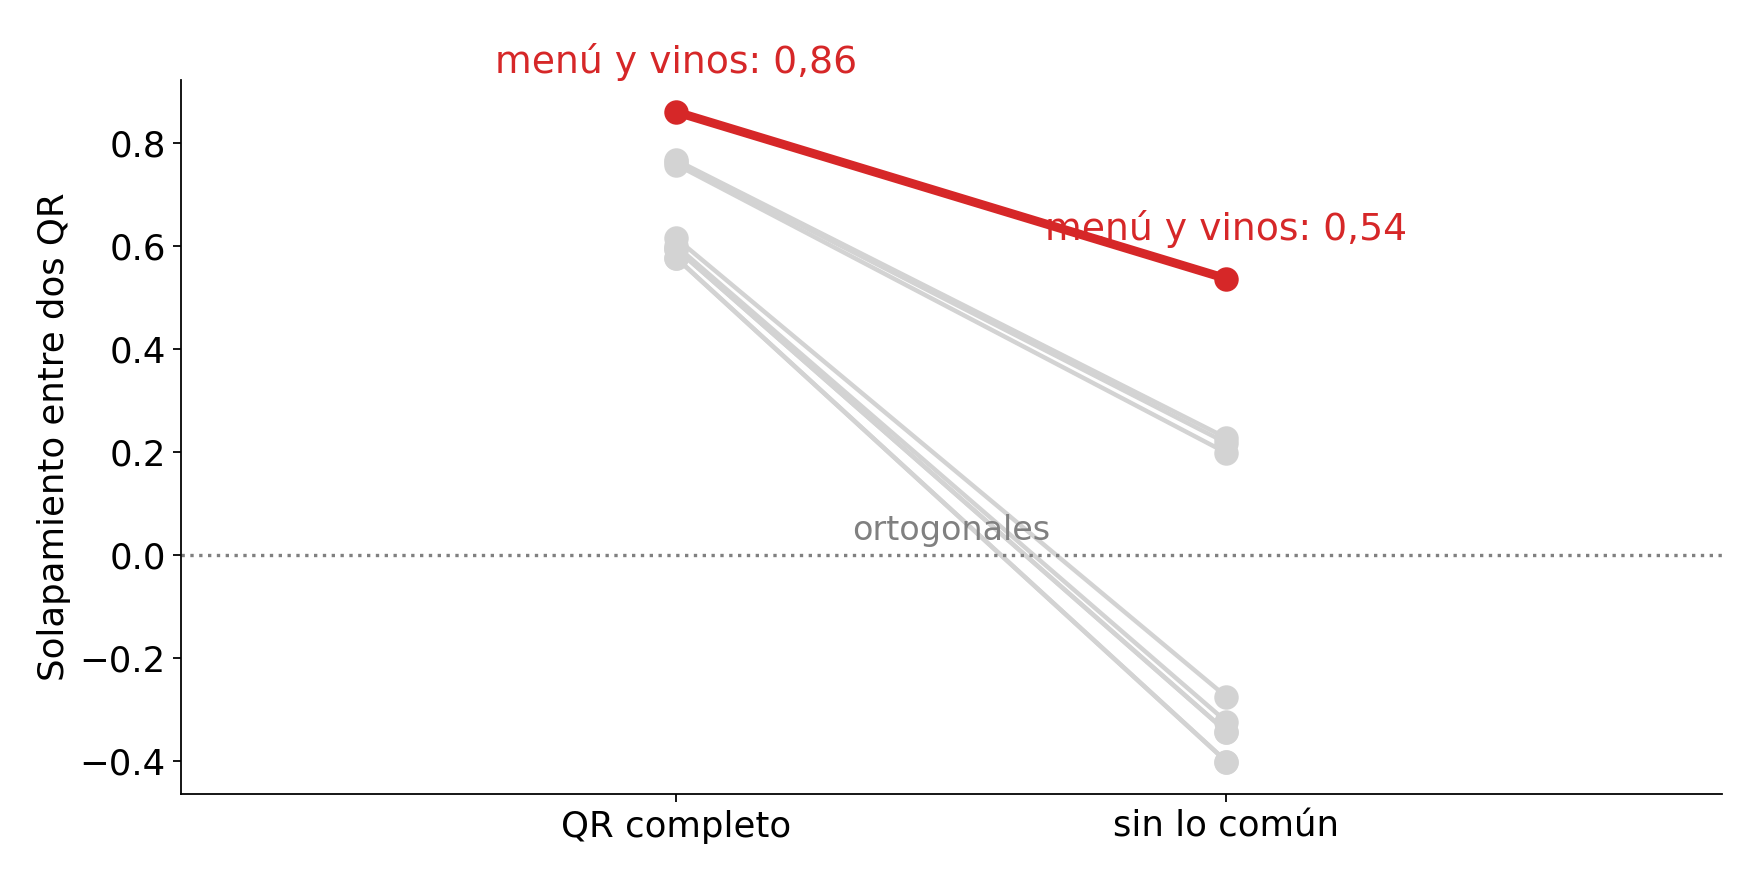
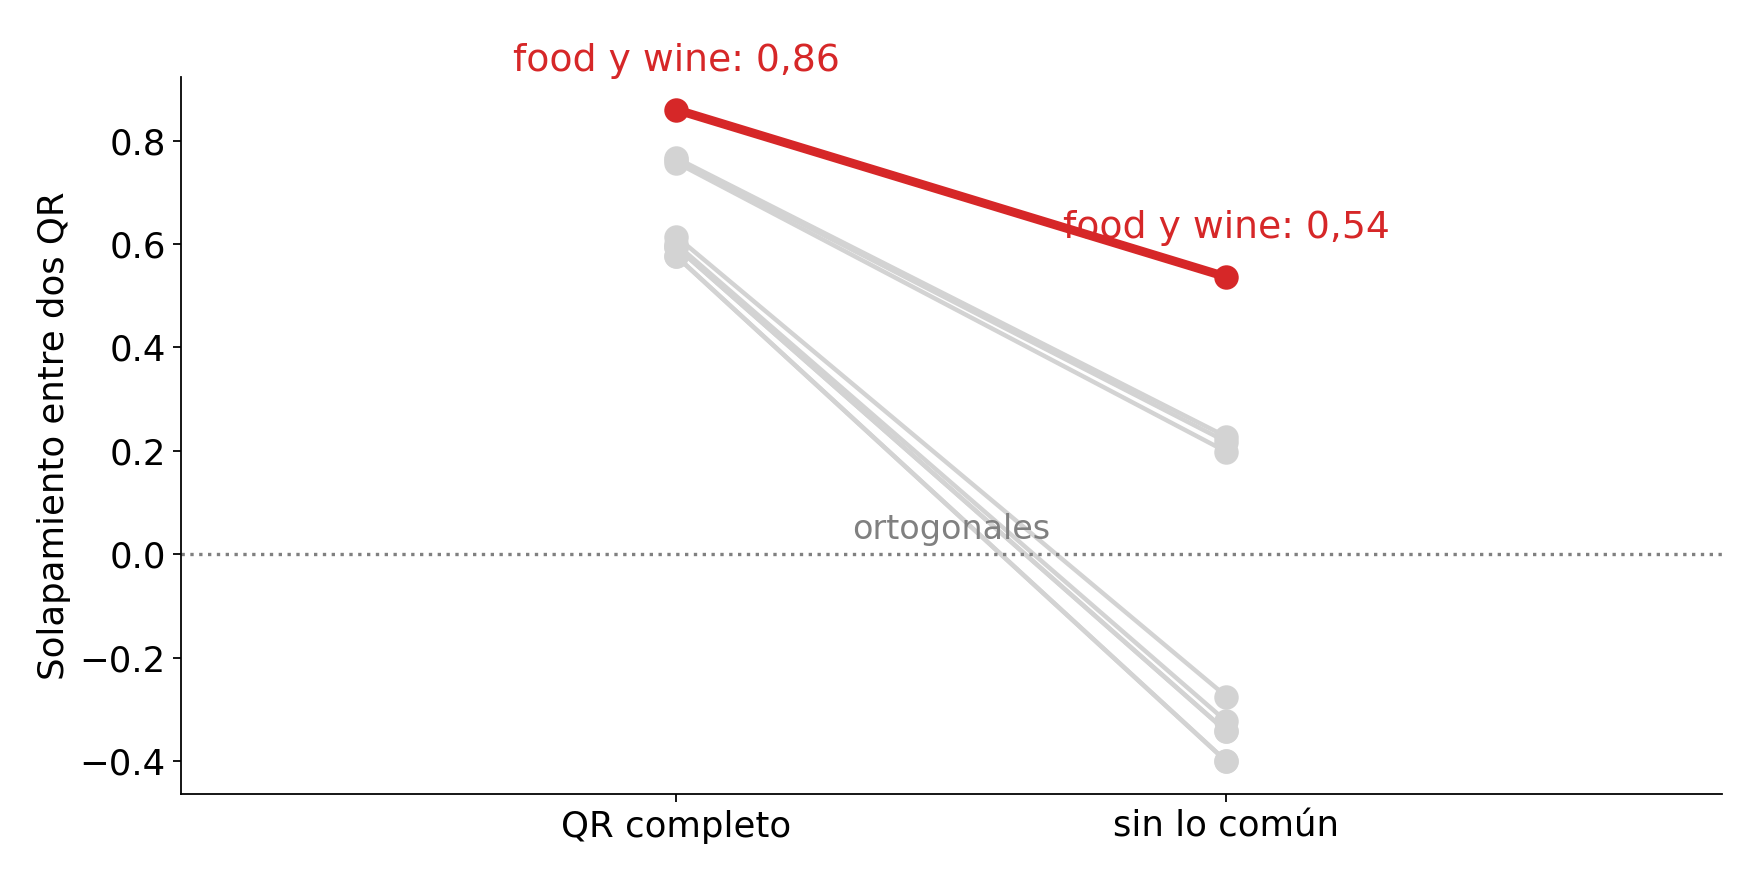
fix(tp4): usa los nombres en inglés de los QR en la presentación
food, wine, beverages, dessert y specials en diapositivas, notas y
figuras regenerables. Las ternas y los solapamientos se recalculan en
memoria con hopfield_qr_variante: dan los mismos 0,54 y 86 %.

diff --git a/TP4/presentation/index.html b/TP4/presentation/index.html
@@ -315,7 +315,7 @@
   <p class="number">2</p>
   <h2>Memoria asociativa</h2>
   <p class="lead">Cinco QR gastados en la Trattoria Aurora. ¿Puede una red de Hopfield recuperarlos?</p>
-  <aside class="notes">Los cinco QR son las cartas del restaurante: menú principal, vinos, cócteles, postres y especiales. Las consultas son los QR con ruido: cada módulo se invierte con probabilidad de 0 a 50 %, 20 semillas por nivel y por QR, 1.100 consultas en total. Después probamos daños más realistas: desgaste, manchas, rayones y una foto gastada.</aside>
+  <aside class="notes">Los cinco QR son las cartas del restaurante: food (menú principal), wine (vinos), beverages (cócteles y otras bebidas), dessert (postres) y specials (especiales del día). Las consultas son los QR con ruido: cada módulo se invierte con probabilidad de 0 a 50 %, 20 semillas por nivel y por QR, 1.100 consultas en total. Después probamos daños más realistas: desgaste, manchas, rayones y una foto gastada.</aside>
 </section>
 
 <section class="figure has-take">
@@ -327,9 +327,9 @@
 
 <section class="figure has-take">
   <h2>La energía baja, pero hacia la mezcla</h2>
-  <figure><img src="assets/reports__presentacion__e2_energia_niveles.png" alt="Energía por iteración de una consulta de menú y energía de cada QR y de la mezcla"></figure>
+  <figure><img src="assets/reports__presentacion__e2_energia_niveles.png" alt="Energía por iteración de una consulta de food y energía de cada QR y de la mezcla"></figure>
   <p class="take">La mezcla (−2.173) está más abajo que cualquier QR guardado (−1.790 a −2.077). La red llega en 1 o 2 iteraciones.</p>
-  <aside class="notes">Izquierda: una consulta de menú con 0, 20 y 45 % de ruido. La energía baja en cada iteración y termina en la línea roja, la mezcla, por debajo del menú guardado. Por qué la mezcla está más abajo: con Hebb, la energía de un estado es −N/2 por la suma, sobre los cinco QR, del cuadrado de cuánto se parece a cada uno, más una constante (p/2 = 2,5) que sale de poner la diagonal en cero. El menú se parece 1 a sí mismo y 0,86, 0,60, 0,59 y 0,77 a los otros: suma 3,04. La mezcla se parece 0,90, 0,87, 0,67, 0,67 y 0,85: suma 3,18. Parecerse bastante a los cinco gana a ser igual a uno. Con patrones al azar no pasa: cada patrón suma casi 1 y la mezcla de cinco, 0,70. En promedio la red para en 1 a 2 iteraciones (apéndice). Con actualización sincrónica la energía podría subir; en este barrido no subió nunca, pero es lo observado, no una garantía.</aside>
+  <aside class="notes">Izquierda: una consulta de food con 0, 20 y 45 % de ruido. La energía baja en cada iteración y termina en la línea roja, la mezcla, por debajo del food guardado. Por qué la mezcla está más abajo: con Hebb, la energía de un estado es −N/2 por la suma, sobre los cinco QR, del cuadrado de cuánto se parece a cada uno, más una constante (p/2 = 2,5) que sale de poner la diagonal en cero. Food se parece 1 a sí mismo y 0,86, 0,60, 0,59 y 0,77 a los otros: suma 3,04. La mezcla se parece 0,90, 0,87, 0,67, 0,67 y 0,85: suma 3,18. Parecerse bastante a los cinco gana a ser igual a uno. Con patrones al azar no pasa: cada patrón suma casi 1 y la mezcla de cinco, 0,70. En promedio la red para en 1 a 2 iteraciones (apéndice). Con actualización sincrónica la energía podría subir; en este barrido no subió nunca, pero es lo observado, no una garantía.</aside>
 </section>
 
 <!-- Problema 1: los cinco QR se parecen -->
@@ -362,7 +362,7 @@
       <p>Entre pares, de 0,58 a 0,86. Al azar, 0,03</p>
     </div>
   </main>
-  <aside class="notes">Hebb funciona cuando los patrones son casi ortogonales: cada uno coincide con los otros en la mitad de los módulos. Las URL comparten los primeros 72 caracteres y solo cambia una palabra: food, wine, beverages, dessert, specials. El QR escribe el mensaje desde la esquina inferior derecha, así que el prefijo común queda en la mitad derecha y las diferencias, a la izquierda: 410 de los 414 módulos que difieren. Esquinas, línea de sincronismo y formato son fijos en todo QR. Menú y vinos coinciden en el 93 % de los módulos. Cualquier conjunto de QR de un mismo sitio va a tener este problema.</aside>
+  <aside class="notes">Hebb funciona cuando los patrones son casi ortogonales: cada uno coincide con los otros en la mitad de los módulos. Las URL comparten los primeros 72 caracteres y solo cambia una palabra: food, wine, beverages, dessert, specials. El QR escribe el mensaje desde la esquina inferior derecha, así que el prefijo común queda en la mitad derecha y las diferencias, a la izquierda: 410 de los 414 módulos que difieren. Esquinas, línea de sincronismo y formato son fijos en todo QR. Food y wine coinciden en el 93 % de los módulos. Cualquier conjunto de QR de un mismo sitio va a tener este problema.</aside>
 </section>
 
 <section class="figure has-take">
@@ -379,18 +379,18 @@
   <aside class="notes">Antes probamos cortar el QR en zonas, una red por zona: no alcanza, porque el parecido es el mismo en cada zona (apéndice). Sacar lo común sí cambia algo: con tres QR guardados recupera el 95,7 % con 25 % de ruido. Cuidado al medir: reponer los comunes ya borra el ruido que cayó ahí sin que la red haga nada, así que comparamos contra esa reposición sin red: 103,5 módulos mal contra 2,1 de la red. Y reponer usa los QR guardados, pero solo la parte que comparten los cinco: no aporta nada para elegir cuál es. Con los cinco juntos ninguno queda estable: hay un segundo problema.</aside>
 </section>
 
-<!-- Problema 2: menú y vinos -->
+<!-- Problema 2: food y wine -->
 
 <section class="section">
-  <h2>Problema 2: sin lo común, menú y vinos siguen pareciéndose</h2>
+  <h2>Problema 2: sin lo común, food y wine siguen pareciéndose</h2>
   <p class="roadmap">Problema 1 · <span class="current">Problema 2</span> · Soluciones · Límites</p>
 </section>
 
 <section class="figure has-take">
-  <h2>Sacar lo común separa a casi todos los pares, menos a menú y vinos</h2>
-  <figure class="pair"><img src="assets/reports__presentacion__e2_solapamiento_antes_despues.png" alt="Solapamiento de cada par de QR con el QR completo y sin lo común"><img src="assets/reports__presentacion__e2_par_parecido.png" alt="Recuperación de ternas con y sin el par menú y vinos"></figure>
-  <p class="take">Sin lo común, menú y vinos quedan en <em>0,54</em>; los demás pares, entre −0,40 y 0,23. Con tres QR y 25 % de ruido: 100 % sin el par, 86 % con el par.</p>
-  <aside class="notes">Izquierda: cada línea es un par de QR, con los 1.369 módulos y con los 414 que difieren. Los negativos salen de que cada módulo se reparte 4 contra 1 o 3 contra 2 entre los cinco QR; las ternas con esos pares se recuperan igual de bien, así que el que molesta es el par positivo. Como referencia, cinco patrones al azar de 414 módulos llegan como mucho a 0,08 en valor absoluto. Derecha: red sin lo común guardando tres QR. De las diez ternas, las tres que incluyen a menú y vinos son las tres peores. Con los cinco juntos el par está siempre adentro.</aside>
+  <h2>Sacar lo común separa a casi todos los pares, menos a food y wine</h2>
+  <figure class="pair"><img src="assets/reports__presentacion__e2_solapamiento_antes_despues.png" alt="Solapamiento de cada par de QR con el QR completo y sin lo común"><img src="assets/reports__presentacion__e2_par_parecido.png" alt="Recuperación de ternas con y sin el par food y wine"></figure>
+  <p class="take">Sin lo común, food y wine quedan en <em>0,54</em>; los demás pares, entre −0,40 y 0,23. Con tres QR y 25 % de ruido: 100 % sin el par, 86 % con el par.</p>
+  <aside class="notes">Izquierda: cada línea es un par de QR, con los 1.369 módulos y con los 414 que difieren. Los negativos salen de que cada módulo se reparte 4 contra 1 o 3 contra 2 entre los cinco QR; las ternas con esos pares se recuperan igual de bien, así que el que molesta es el par positivo. Como referencia, cinco patrones al azar de 414 módulos llegan como mucho a 0,08 en valor absoluto. Derecha: red sin lo común guardando tres QR. De las diez ternas, las tres que incluyen a food y wine son las tres peores. Con los cinco juntos el par está siempre adentro.</aside>
 </section>
 
 <section>
@@ -408,8 +408,8 @@
   <p class="tag">Diagnóstico, no solución</p>
   <h2>Separado el par, cada red funciona; elegir la red no</h2>
   <figure><img src="assets/reports__presentacion__e2_dos_redes.png" alt="Recuperación con dos redes según cómo se elige la salida, contra comparar con los originales"></figure>
-  <p class="take">Menú en una red y vinos en otra: cada una recupera sus QR. Pero una consulta de menú, en la red de vinos, cae en vinos (140 de 140). Para elegir hay que comparar con los originales.</p>
-  <aside class="notes">Repartimos los cinco QR en una terna y un par con el menor parecido dentro de cada grupo: sale solo que menú y vinos quedan separados. Si mandamos la consulta a la red que guarda su QR, recupera el 100 % hasta 35 % de ruido: eso confirma que el par es el único obstáculo. Pero en la realidad no sabemos qué QR es la consulta. Con menú, las dos redes devuelven un QR guardado. Sin desempate, el total queda en 80 % (curva roja). Desempatar con la salida más parecida a la consulta es Hamming: nunca le gana (6 consultas mejor, 25 peor). Elegir la red de menor energía no mira los originales, pero con Hebb la energía es −N/2 por la suma de los solapamientos al cuadrado con los QR de la red, más una constante: sigue midiendo parecido, y queda por debajo (3 mejor, 43 peor). Con cinco redes de un QR cada una, esto sería exactamente comparar con los originales. Por eso no la contamos como solución.</aside>
+  <p class="take">Food en una red y wine en otra: cada una recupera sus QR. Pero una consulta de food, en la red de wine, cae en wine (140 de 140). Para elegir hay que comparar con los originales.</p>
+  <aside class="notes">Repartimos los cinco QR en una terna y un par con el menor parecido dentro de cada grupo: sale solo que food y wine quedan separados. Si mandamos la consulta a la red que guarda su QR, recupera el 100 % hasta 35 % de ruido: eso confirma que el par es el único obstáculo. Pero en la realidad no sabemos qué QR es la consulta. Con food, las dos redes devuelven un QR guardado. Sin desempate, el total queda en 80 % (curva roja). Desempatar con la salida más parecida a la consulta es Hamming: nunca le gana (6 consultas mejor, 25 peor). Elegir la red de menor energía no mira los originales, pero con Hebb la energía es −N/2 por la suma de los solapamientos al cuadrado con los QR de la red, más una constante: sigue midiendo parecido, y queda por debajo (3 mejor, 43 peor). Con cinco redes de un QR cada una, esto sería exactamente comparar con los originales. Por eso no la contamos como solución.</aside>
 </section>
 
 <!-- Soluciones: una sola red con los cinco QR -->
@@ -505,7 +505,7 @@ Campo de cada neurona al presentar A:
 </section>
 
 <section class="statement">
-  <h2>Los cinco QR se parecen.<br>Sin lo común, menú y vinos siguen pareciéndose.</h2>
+  <h2>Los cinco QR se parecen.<br>Sin lo común, food y wine siguen pareciéndose.</h2>
   <p class="sub">Sacar lo común reduce el primero. Desaprender o la pseudoinversa resuelven el segundo, cerca del techo de comparar con los originales.</p>
 </section>
 

diff --git a/TP4/analysis/presentation_qr_figures.py b/TP4/analysis/presentation_qr_figures.py
@@ -18,8 +18,8 @@ from src.tp4.queries import make_queries
 from src.tp4.shared_modules import SharedModules
 from src.tp4.split_hopfield import SplitHopfield
 
-MENU_NAMES = {'menu_principal': 'menú principal', 'vinos': 'vinos', 'cocteles_y_bebidas': 'cócteles',
-              'postres': 'postres', 'especiales': 'especiales'}
+MENU_NAMES = {'menu_principal': 'food', 'vinos': 'wine', 'cocteles_y_bebidas': 'beverages',
+              'postres': 'dessert', 'especiales': 'specials'}
 EXAMPLE_NOISE, EXAMPLE_SEED = .1, 0
 CORNER_BLOCK = 11  # el mismo bloque que el ejemplo de mejoras/
 WRONG = np.array([214, 39, 40]) / 255  # módulos mal: rojo
@@ -187,7 +187,7 @@ def plot_similar_pair(results, path, pair=('menu_principal', 'vinos')):
     correct = (triads.category == 'correct').groupby([with_pair, triads.noise]).mean().unstack(0)
     counts = triads.groupby(with_pair).subset.nunique()
     lines = {False: (f'las {counts[False]} ternas sin ese par', 'C0'),
-             True: (f'las {counts[True]} ternas con menú y vinos', 'C3')}
+             True: (f'las {counts[True]} ternas con food y wine', 'C3')}
     fig, ax = plt.subplots(figsize=(11, 5.2))
     for has_pair, (label, color) in lines.items():
         ax.plot(correct.index, correct[has_pair], marker='o', lw=3, color=color, label=label)
@@ -228,7 +228,7 @@ def plot_overlap_before_after(overlaps, path, pair=('menu_principal', 'vinos')):
                 color='C3' if highlighted else 'lightgray', zorder=3 if highlighted else 2)
         if highlighted:
             for x, value in enumerate(values):
-                ax.annotate(f'menú y vinos: {_decimal(round(value, 2))}', (x, value), xytext=(0, 14),
+                ax.annotate(f'food y wine: {_decimal(round(value, 2))}', (x, value), xytext=(0, 14),
                             textcoords='offset points', ha='center', va='bottom', color='C3', fontsize=17)
     ax.axhline(0, color='gray', ls=':', lw=1.5)
     ax.text(.5, .03, 'ortogonales', color='gray', ha='center', fontsize=15)
@@ -271,8 +271,8 @@ def plot_energy_levels(patterns, path, origin=0):
     axes += [fig.add_subplot(grid[0, i], sharey=axes[0]) for i in (1, 2)]
     for ax, noise in zip(axes, noises):
         energies = recall_query(network, find_query(queries, origin, noise, EXAMPLE_SEED)).energies
-        ax.plot(range(len(energies)), energies, marker='o', lw=2.5, ms=8, color='C0', label='consulta de menú')
-        ax.axhline(levels['menú principal'], color='gray', ls='--', lw=1.5, label='menú guardado')
+        ax.plot(range(len(energies)), energies, marker='o', lw=2.5, ms=8, color='C0', label='consulta de food')
+        ax.axhline(levels[MENU_NAMES['menu_principal']], color='gray', ls='--', lw=1.5, label='food guardado')
         ax.axhline(levels['mezcla'], color='C3', ls=':', lw=2, label='mezcla')
         ax.set(title=f'ruido {_decimal(noise * 100)} %', xlabel='Iteración', xticks=range(len(energies)))
     axes[0].set_ylabel('Energía')

diff --git a/TP4/presentation/mapa_estudio_diapositivas.md b/TP4/presentation/mapa_estudio_diapositivas.md
@@ -51,8 +51,8 @@ Los enlaces abren la diapositiva correspondiente en `index.html`. La tecla S mue
 | 41 | [Los cinco QR son casi el mismo QR](index.html#/40) | §7–8 | ¿Cómo se define el solapamiento? ¿Por qué las diferencias quedan a la izquierda del QR? |
 | 42 | [Con más de 25 % compartido, los otros QR le ganan al propio](index.html#/41) | §7–8 | ¿De dónde sale 1 − 4 × compartido y por qué vale solo para el peor módulo? |
 | 43 | [Sacar lo común: entran de a tres, pero los cinco juntos siguen en cero](index.html#/42) | §11 | ¿Cómo funcionan strip y restore? ¿Por qué reponer lo común no es comparar con los originales? |
-| 44 | [Problema 2: sin lo común, menú y vinos siguen pareciéndose](index.html#/43) | §8 | ¿Qué problema queda después de retirar las coordenadas comunes? |
-| 45 | [Sacar lo común separa a casi todos los pares, menos a menú y vinos](index.html#/44) | §8 | ¿Por qué los pares negativos no molestan y el par menú-vinos sí? ¿Qué muestran las ternas? |
+| 44 | [Problema 2: sin lo común, food y wine siguen pareciéndose](index.html#/43) | §8 | ¿Qué problema queda después de retirar las coordenadas comunes? |
+| 45 | [Sacar lo común separa a casi todos los pares, menos a food y wine](index.html#/44) | §8 | ¿Por qué los pares negativos no molestan y el par menú-vinos sí? ¿Qué muestran las ternas? |
 | 46 | [Por qué ese par: en los datos difieren en 6 bits](index.html#/45) | §8 | ¿Cómo se llega de 96 módulos distintos a un solapamiento de 0,54? |
 | 47 | [Separado el par, cada red funciona; elegir la red no](index.html#/46) | §11 | ¿Por qué las dos redes son un diagnóstico y no una solución? ¿Por qué elegir por energía sigue midiendo parecido con los QR? |
 | 48 | [Soluciones: una sola red que guarde los cinco](index.html#/47) | §9–10 | ¿Qué tienen en común desaprendizaje y pseudoinversa y en qué se diferencian de las dos redes? |
@@ -65,7 +65,7 @@ Los enlaces abren la diapositiva correspondiente en `index.html`. La tecla S mue
 | 55 | [La esquina rota casi no le llega a la red](index.html#/54) | §12, §14 | ¿Cuántos módulos cubre, altera y ve la red? ¿Hasta qué tamaño se recupera? |
 | 56 | [Con daño realista, la red recupera el QR mucho después de que el lector deja de leer](index.html#/55) | §12 | ¿Cómo se genera cada daño? ¿Por qué el lector solo falla tan pronto y dónde se rompe cada método? |
 | 57 | [Límites del caso de uso](index.html#/56) | §12, §14 | ¿Qué supone que la consulta llegue a 37×37? ¿Qué alternativas solo se proponen? |
-| 58 | [Los cinco QR se parecen. Sin lo común, menú y vinos siguen pareciéndose.](index.html#/57) | §12, §14 | ¿Cómo reformularías la conclusión para no afirmar que sacar lo común basta con cinco QR? |
+| 58 | [Los cinco QR se parecen. Sin lo común, food y wine siguen pareciéndose.](index.html#/57) | §12, §14 | ¿Cómo reformularías la conclusión para no afirmar que sacar lo común basta con cinco QR? |
 
 ## Apéndice
 
